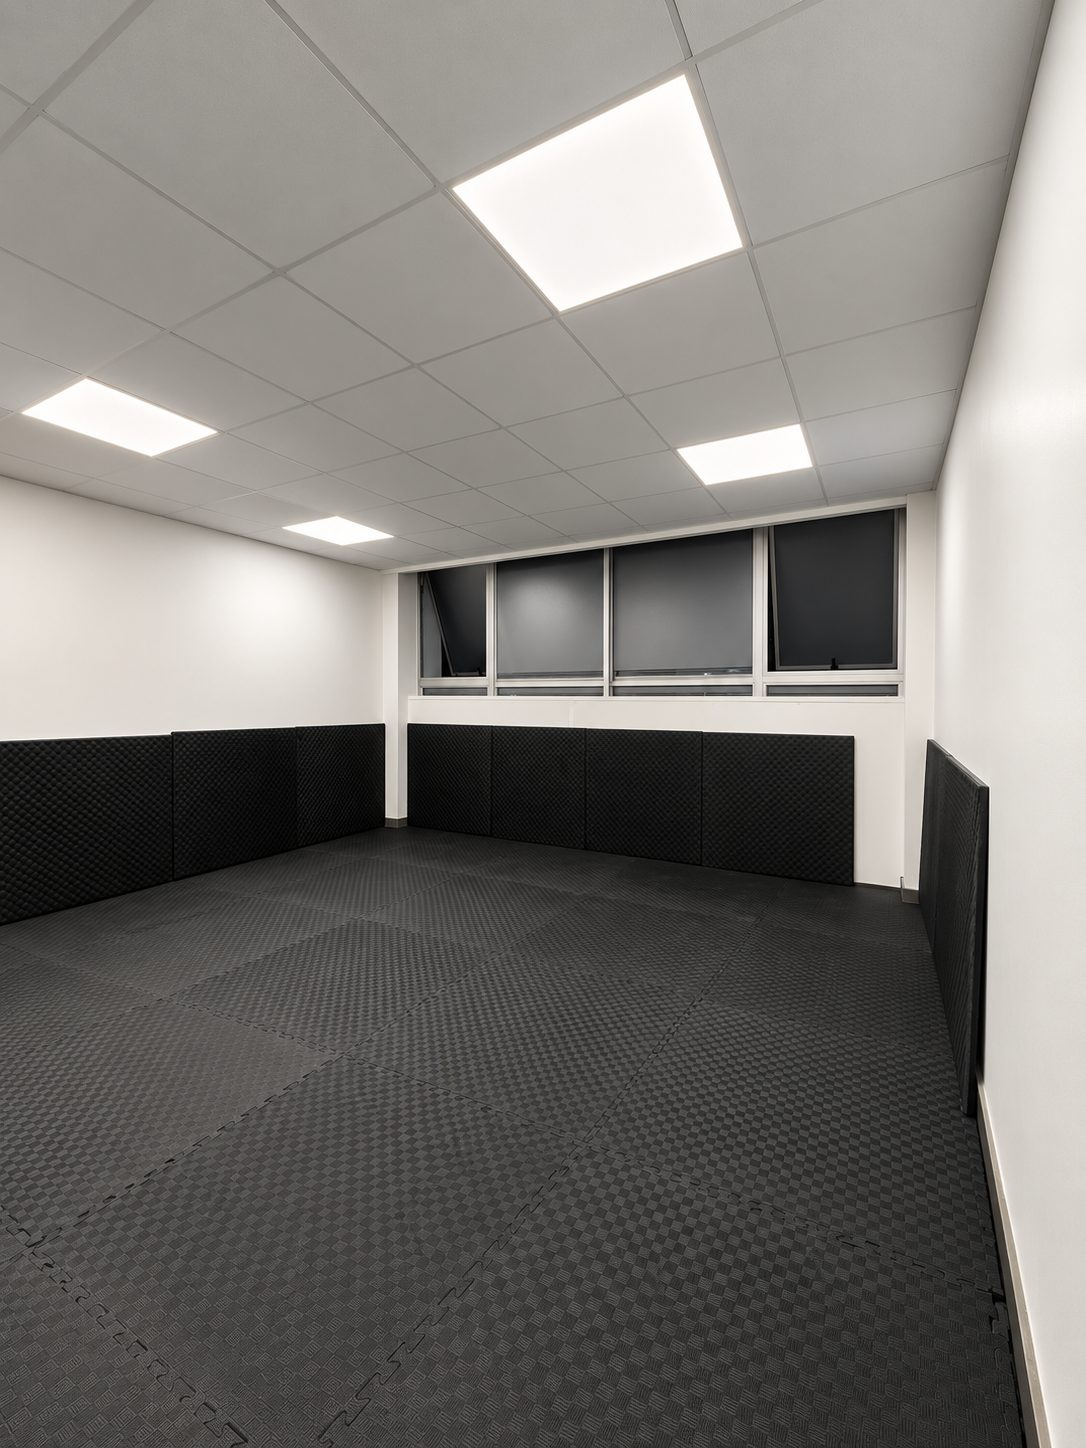
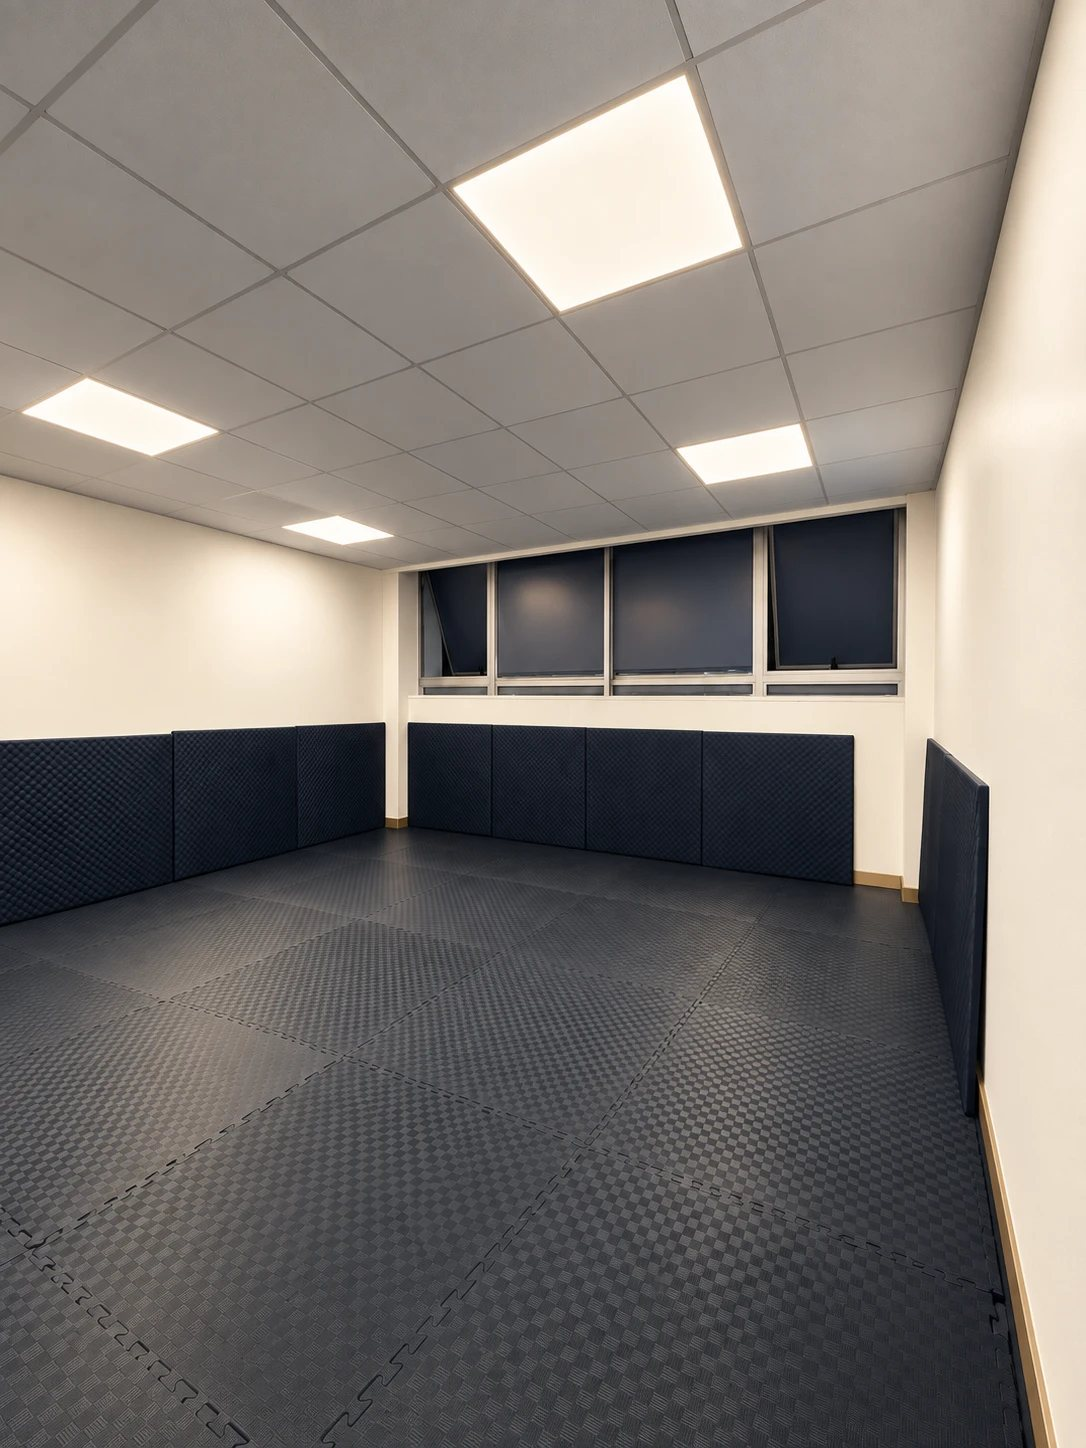
Foto del dojo con la paleta del sitio
Reemplaza la foto del dojo por una versión ajustada a la paleta
(azul marino, crema y dorado) y quita el filtro de color del CSS
para mostrarla tal cual.

diff --git a/css/pages/home.css b/css/pages/home.css
@@ -42,7 +42,7 @@
 .dojo-grid{display:grid;grid-template-columns:5fr 6fr;gap:clamp(32px,6vw,80px);align-items:center}
 .dojo-photo{margin:0;position:relative}
 .dojo-photo::before{content:"";position:absolute;inset:18px -18px -18px 18px;border:1px solid var(--bronze);pointer-events:none}
-.dojo-photo img{display:block;width:100%;height:auto;aspect-ratio:4/5;object-fit:cover;object-position:50% 78%;position:relative;filter:saturate(.9) contrast(1.05)}
+.dojo-photo img{display:block;width:100%;height:auto;aspect-ratio:4/5;object-fit:cover;object-position:50% 78%;position:relative}
 .dojo-copy h2{font-size:clamp(46px,6vw,84px);font-weight:900;margin-top:16px}
 .dojo-copy > p{max-width:44ch;color:var(--text-soft);margin-top:22px}
 .dojo-facts{display:grid;grid-template-columns:auto 1fr;gap:28px;margin:30px 0 0;padding-top:24px;border-top:1px solid var(--line)}
